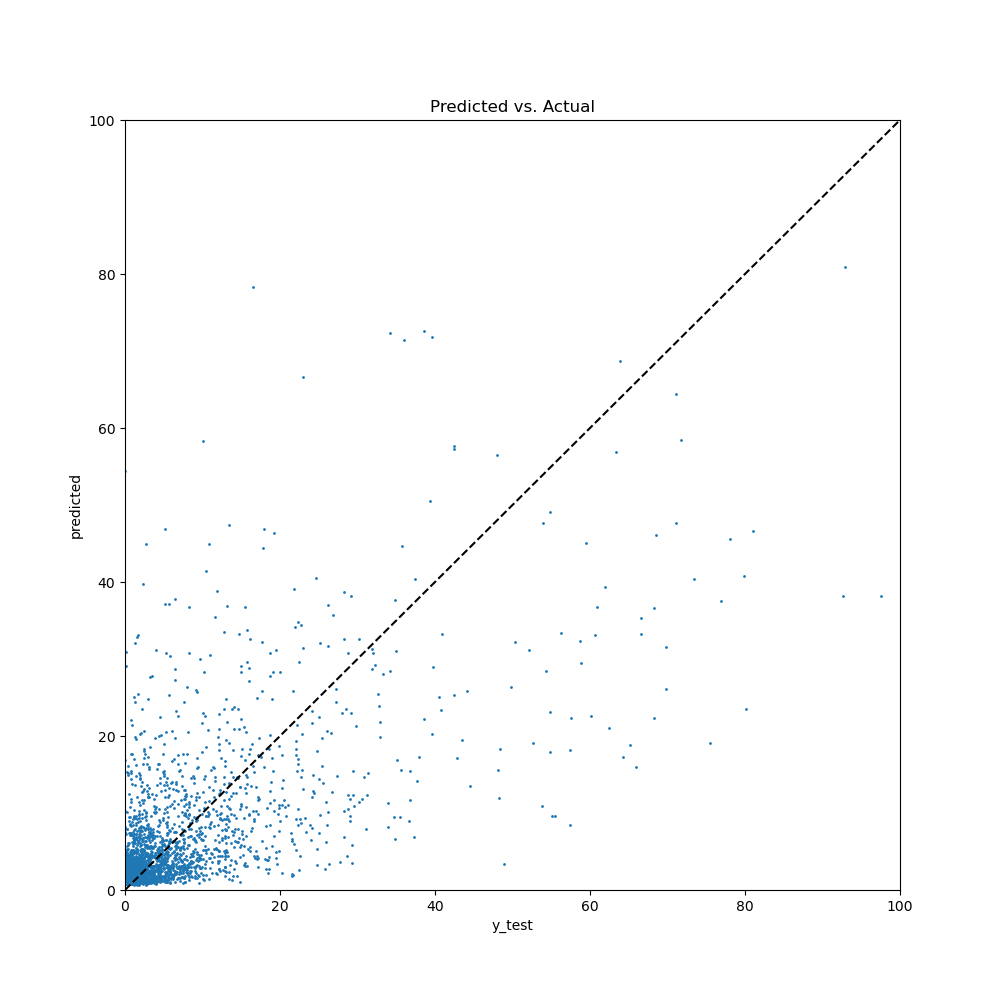
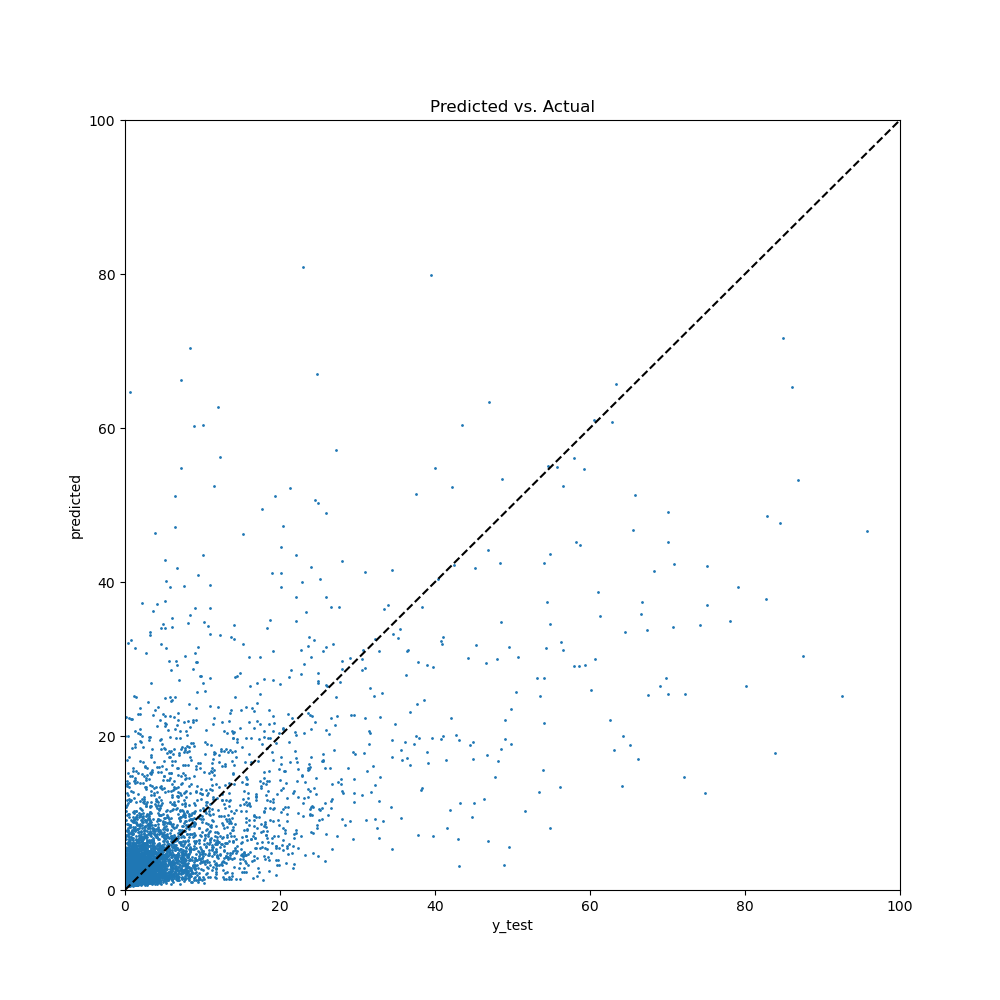
updating

Changed region(s): [[0.124, 0.713, 0.372, 0.899]]

diff --git a/modeling_v0.py b/modeling_v0.py
@@ -142,7 +142,7 @@ def fit_CNN(model, xtrain, xval, ytrain, yval, early_stop):
 		model: fit model ready for making predictions.
 	'''
 
-	if not os.path.exists('models/test_non_twins_model_v0.h5'):
+	if not os.path.exists('models/test_non_twins_model_v1.h5'):
 
 		# reshaping the model input vectors for a single channel
 		Xtrain = xtrain.reshape((xtrain.shape[0], xtrain.shape[1], xtrain.shape[2], 1))
@@ -153,11 +153,11 @@ def fit_CNN(model, xtrain, xval, ytrain, yval, early_stop):
 					shuffle=True, epochs=MODEL_CONFIG['epochs'],  callbacks=[early_stop])
 
 		# saving the model
-		model.save('models/test_non_twins_model_v0.h5')
+		model.save('models/test_non_twins_model_v1.h5')
 
 	else:
 		# loading the model if it has already been trained.
-		model = load_model('models/test_non_twins_model_v0.h5')				# loading the models if already trained
+		model = load_model('models/test_non_twins_model_v1.h5')				# loading the models if already trained
 
 
 	return model
@@ -205,6 +205,18 @@ def making_predictions(model, Xtest, ytest):
 	plt.xlim(0, 100)
 	plt.savefig('plots/non_twins_predicted_vs_actual.png')
 
+	fig = plt.figure(figsize=(10,10))
+	plt.hist2d(results_df['y_test'], results_df['predicted'], bins=[100,100], norm=matplotlib.colors.LogNorm())
+	plt.colorbar()
+	plt.plot([0, 100], [0, 100], 'k--')
+	plt.xlabel('y_test')
+	plt.ylabel('predicted')
+	plt.title('Predicted vs. Actual')
+	plt.margins(x=0,y=0)
+	plt.ylim(0,100)
+	plt.xlim(0, 100)
+	plt.savefig('plots/non_twins_predicted_vs_actual_hist.png')
+
 	# checking for nan data in the results
 	print('Pred has Nan: '+str(predicted.isnull().sum()))
 	print('ytest has Nan: '+str(np.isnan(ytest).sum()))
@@ -212,6 +224,11 @@ def making_predictions(model, Xtest, ytest):
 	return results_df
 
 def calculate_some_metrics(results_df):
+
+	print(f'Mean of y_test: {results_df["y_test"].mean()}')
+	print(f'Mean of predicted: {results_df["predicted"].mean()}')
+	print(f'Std of y_test: {results_df["y_test"].std()}')
+	print(f'Std of predicted: {results_df["predicted"].std()}')
 
 	# calculating the RMSE
 	rmse = np.sqrt(mean_squared_error(results_df['y_test'], results_df['predicted']))

diff --git a/data_prep.py b/data_prep.py
@@ -99,6 +99,7 @@ class DataPrep:
 
 		# loading the twins times
 		self.twins_times = pd.read_feather(self.twins_times_path)
+		self.twins_times['dates'] = pd.to_datetime(self.twins_times['dates'], format='%Y-%m-%d %H:%M:$S').round('T')
 
 		# Loading the TWINS maps if load_twins == True:
 		if load_twins:
@@ -293,10 +294,19 @@ class DataPrep:
 		# Date_UTC column and the value fo the twins_dates series. '''
 		print(df.head())
 		df.index.name = 'Date_UTC'
-		print(df.loc['2009-07-21 00:00:00':'2009-07-20 00:31:00'])
+		print(df.loc['2009-07-20 00:00:00':'2009-07-20 00:31:00'])
 		df.reset_index(inplace=True, drop=False)
 		indices = df.index[df['Date_UTC'].isin(self.twins_times['dates'])].tolist()
 		not_indices = df.index[~df['Date_UTC'].isin(self.twins_times['dates'])].tolist()
+
+		matching = df['Date_UTC'][df['Date_UTC'].isin(self.twins_times['dates'])]
+		not_matching = df['Date_UTC'][~df['Date_UTC'].isin(self.twins_times['dates'])]
+
+		matching = pd.DataFrame({'matching':matching}).reset_index(drop=True)
+		not_matching = pd.DataFrame({'not_matching':not_matching}).reset_index(drop=True)
+		matching.to_feather('outputs/matching.feather')
+		not_matching.to_feather('outputs/not_matching.feather')
+
 		missing_twins = self.twins_times['dates'][~self.twins_times['dates'].isin(df['Date_UTC'])].tolist()
 		sequences = df.copy()
 		target = sequences[target_var]
